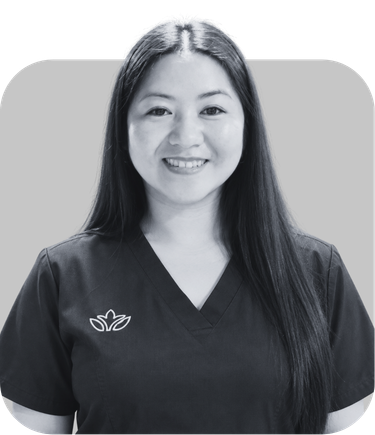
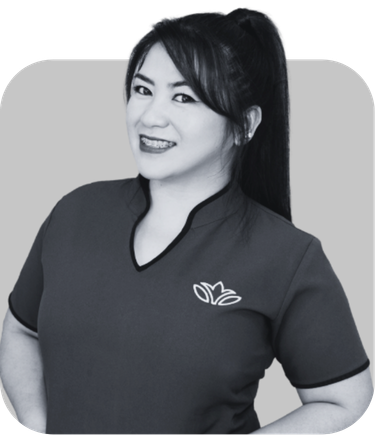
Kate, 14 Oct 2026: Dina Paycao gets a new photo. Same black-and-white card and grey beauty uniform, a better headshot than the first one, saved over the same file (stylist/photos/KCA/dina paycao.png, 375x435); nothing else about her entry changed. Because the photo path did not change, a browser tha

diff --git a/index.html b/index.html
@@ -4159,7 +4159,7 @@ table.tp-cmp td.bad{color:var(--bad)}
 <script src="ledger-targets.js?v=20261007t20"></script>
 <!-- After ledger-targets.js: the Supabase target layer overrides its lookups per month. -->
 <script src="ledger-targets-db.js?v=20261006act"></script>
-<script src="staff-profiles.js?v=20261014karina"></script>
+<script src="staff-profiles.js?v=20261014dina2"></script>
 <script src="stylist-levels.js?v=20261005dots"></script>
 <script src="staff-weeks.js?v=20261013a"></script>
 <script src="products.js?v=20261014cb2"></script>

diff --git a/upload/index.html b/upload/index.html
@@ -96,7 +96,7 @@ function upViewOnly() {
 <script src="name-aliases.js?v=6"></script>
 <!-- staff-profiles.js wants canonicalStaffName() from name-aliases.js above it,
      same load order the dashboard itself uses (its own comment says so). -->
-<script src="../staff-profiles.js?v=20261014karina"></script>
+<script src="../staff-profiles.js?v=20261014dina2"></script>
 <script src="phorest-staff.js?v=20261014bah"></script>
 <script src="phorest-pdf.js?v=2"></script>
 <script src="utilisation-pdf.js?v=20261014bah"></script>

diff --git a/add ons/google-reviews/index.html b/add ons/google-reviews/index.html
@@ -354,7 +354,7 @@ html.embedded .filters{position:relative;z-index:30}
 <div class="tip" id="tip"></div>
 
 
-<script src="../../staff-profiles.js?v=20261014karina"></script>
+<script src="../../staff-profiles.js?v=20261014dina2"></script>
 <script src="../../auth.js?v=20260925d"></script>
 <script src="review-links.js?v=20260928a"></script>
 <script src="/assets/pill-select.js?v=20261005tap"></script>

diff --git a/performance/index.html b/performance/index.html
@@ -87,7 +87,7 @@ function perfToggleTheme() {
 })();
 </script>
 
-<script src="../staff-profiles.js?v=20261014karina"></script>
+<script src="../staff-profiles.js?v=20261014dina2"></script>
 <script src="win-gap.js?v=20260930c"></script>
 <script src="/payslip/open.js?v=2"></script>
 <script src="one2one.js?v=20261013d"></script>

diff --git a/stylist/stylist.html b/stylist/stylist.html
@@ -176,6 +176,6 @@
   </div><!-- end main-content-wrapper -->
 </div><!-- end layout -->
 
-<script src="stylist.js?v=20261014karina" defer></script>
+<script src="stylist.js?v=20261014dina2" defer></script>
 </body>
 </html>
